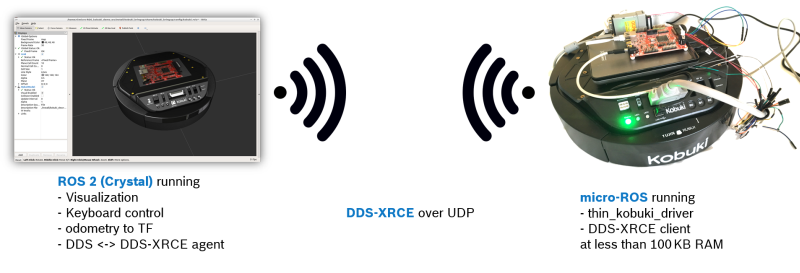
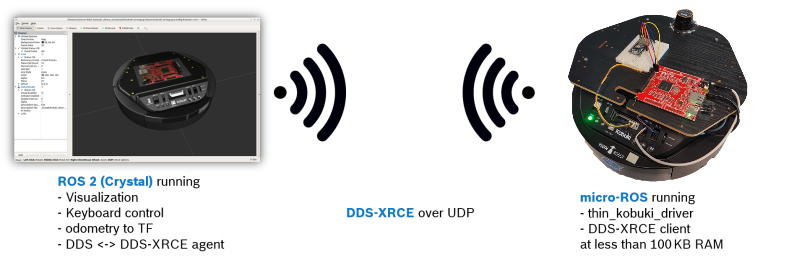
Initial demo setup hardware documentation

Changed region(s): [[0.6875, 0.0293, 1.0, 0.674], [0.9688, 0.4689, 1.0, 0.5568]]

diff --git a/hardware_setup/README.md b/hardware_setup/README.md
@@ -1,0 +1,51 @@
+# Hardware setup for the Kobuki demo
+
+WORK IN PROGRESS
+
+## Parts
+
+### Off-the-shelf parts
+ 
+ * Turtlebot 2 base
+ * Olimex STM32-E407 board with headers on "PD"
+ * SBC-ESP32-NodeMCU
+ * Breadboard
+ * 6 prototyping wires for connecting Olimex and ESP32
+ * USB-OTG cable: Mini-AB to A
+ * USB cable: A to B
+
+### Custom parts
+
+ * Serial cable between Kobuki base and Olimex board
+    * DB25 male header
+    * 3 wires
+    * TODO: add 
+ * Power cable from Kobuki to Olimex board
+    * Molex 43025-0208 connector
+    * DC barrel jack 2mm for 6.3mm jack, positive on pin
+    
+
+## Relevant Datasheets
+
+### For the demo hardware
+
+ * Olimex STM32-E407
+    * [Olimex STM32-E407 User Guide](https://www.olimex.com/Products/ARM/ST/STM32-E407/resources/STM32-E407.pdf)
+    * [UEXT pinout](https://www.olimex.com/Products/ARM/ST/STM32-E407/resources/STM32-E407.pdf#15)
+    * [PD pinout](https://www.olimex.com/Products/ARM/ST/STM32-E407/resources/STM32-E407.pdf#18)
+ * ESP32 (used for transparent WiFi)
+   * [ESP32 AT Firmware Download](https://www.espressif.com/en/support/download/at)
+   * [ESP32 Pinout Reference](https://randomnerdtutorials.com/esp32-pinout-reference-gpios/)
+   * [Source for ESP32 AT Firmware](https://github.com/espressif/esp-at)
+   * [ESP32 Getting Started Guide with Pinouts](https://github.com/espressif/esp-at/blob/master/docs/ESP_AT_Get_Started.md)
+
+### For debug tools
+
+ * [FTDI TTl232-3v3 cable pinout](https://www.ftdichip.com/Support/Documents/DataSheets/Cables/DS_TTL-232R_CABLES.pdf#page=11)
+ 
+
+## Wiring
+
+|  Source         | SName | Pin | Meaning | Dest | Dest Pin |
+|-----------------|-------|-----|---------|------|----------|
+| Kobuki Parallel | 
